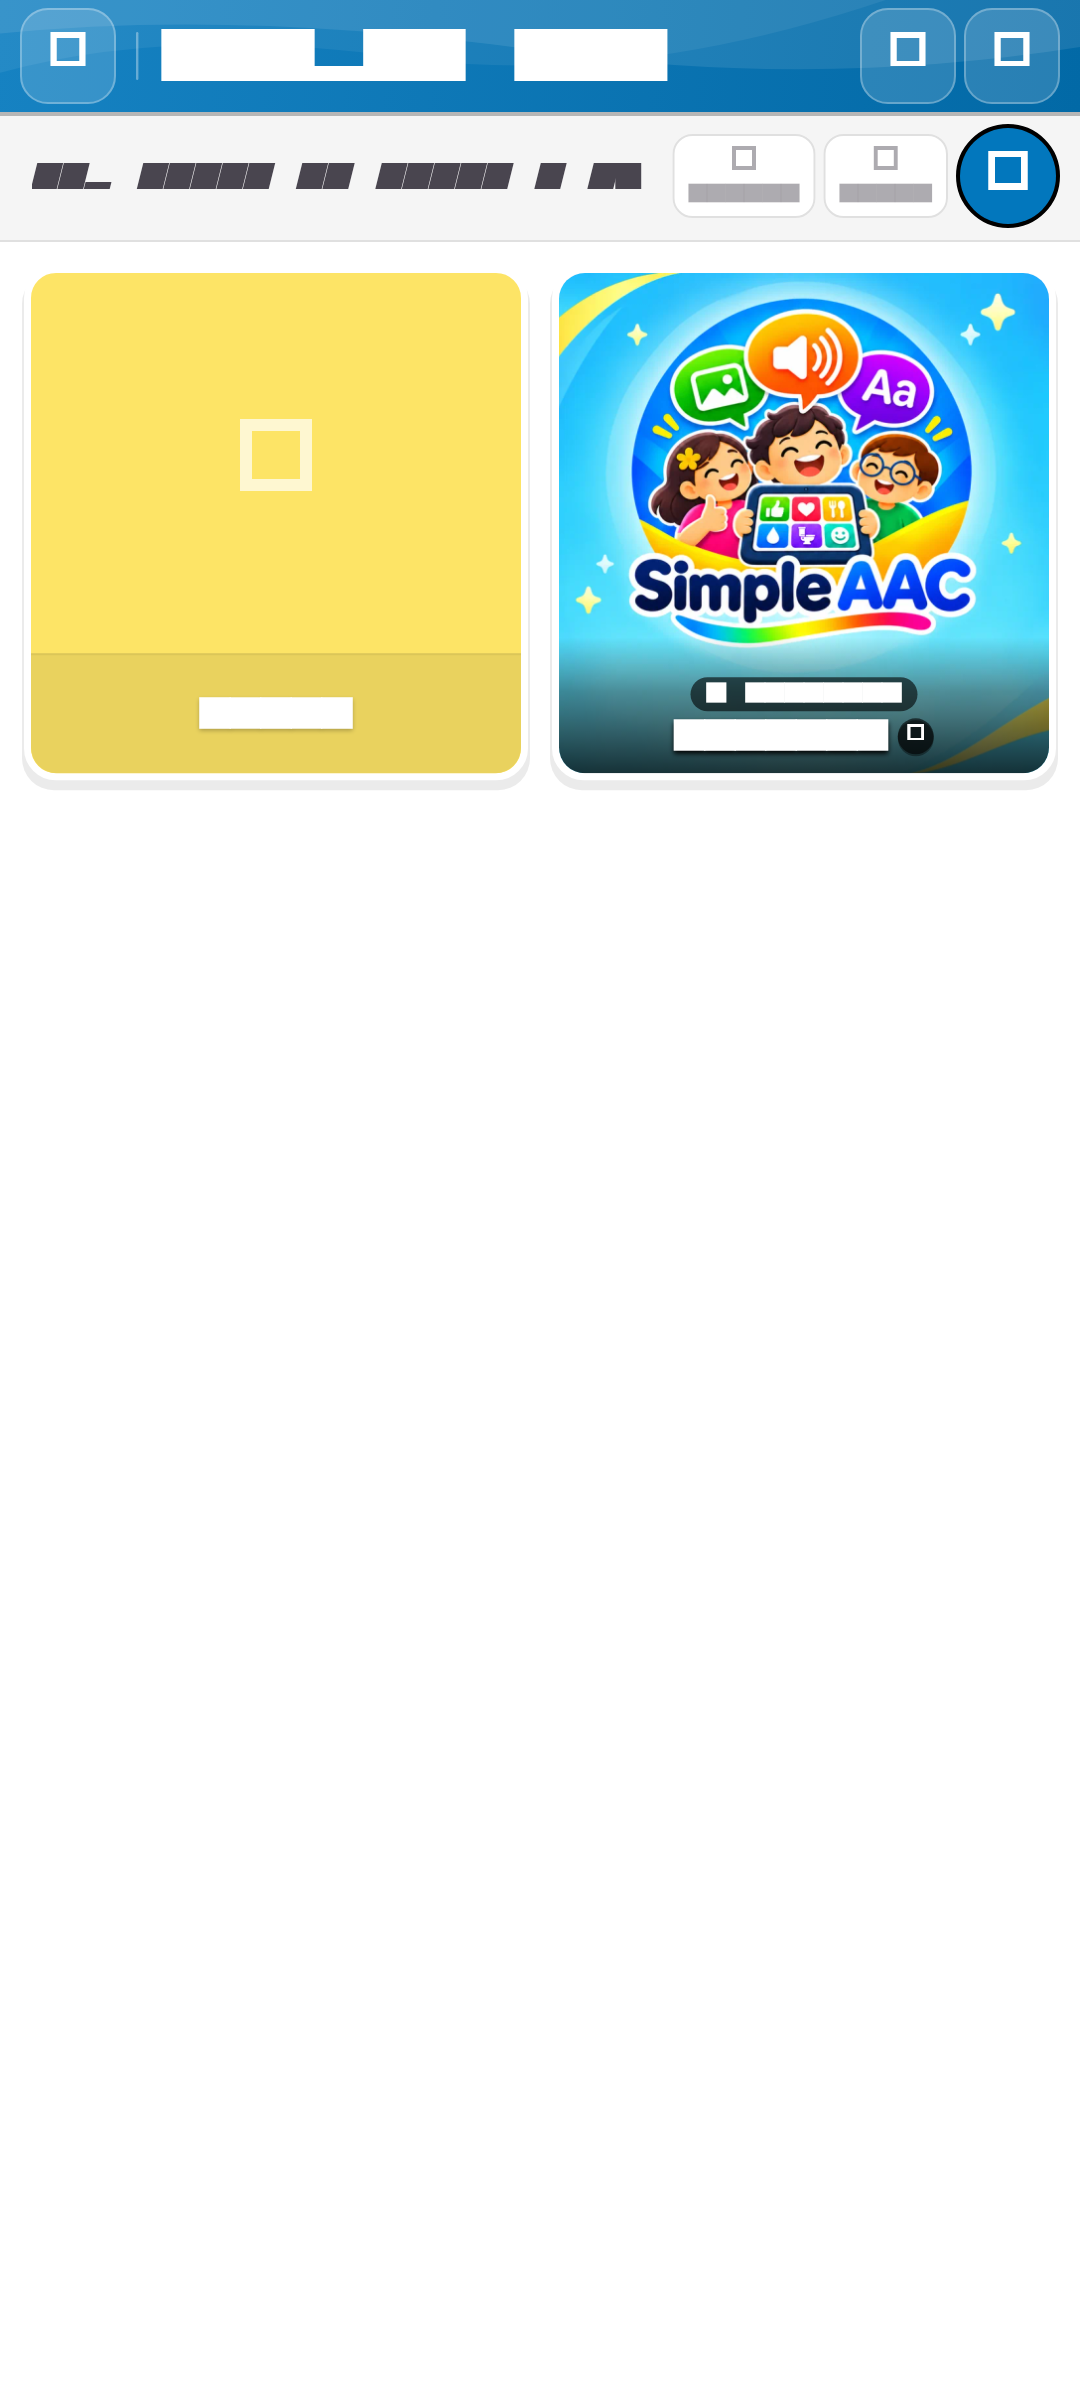
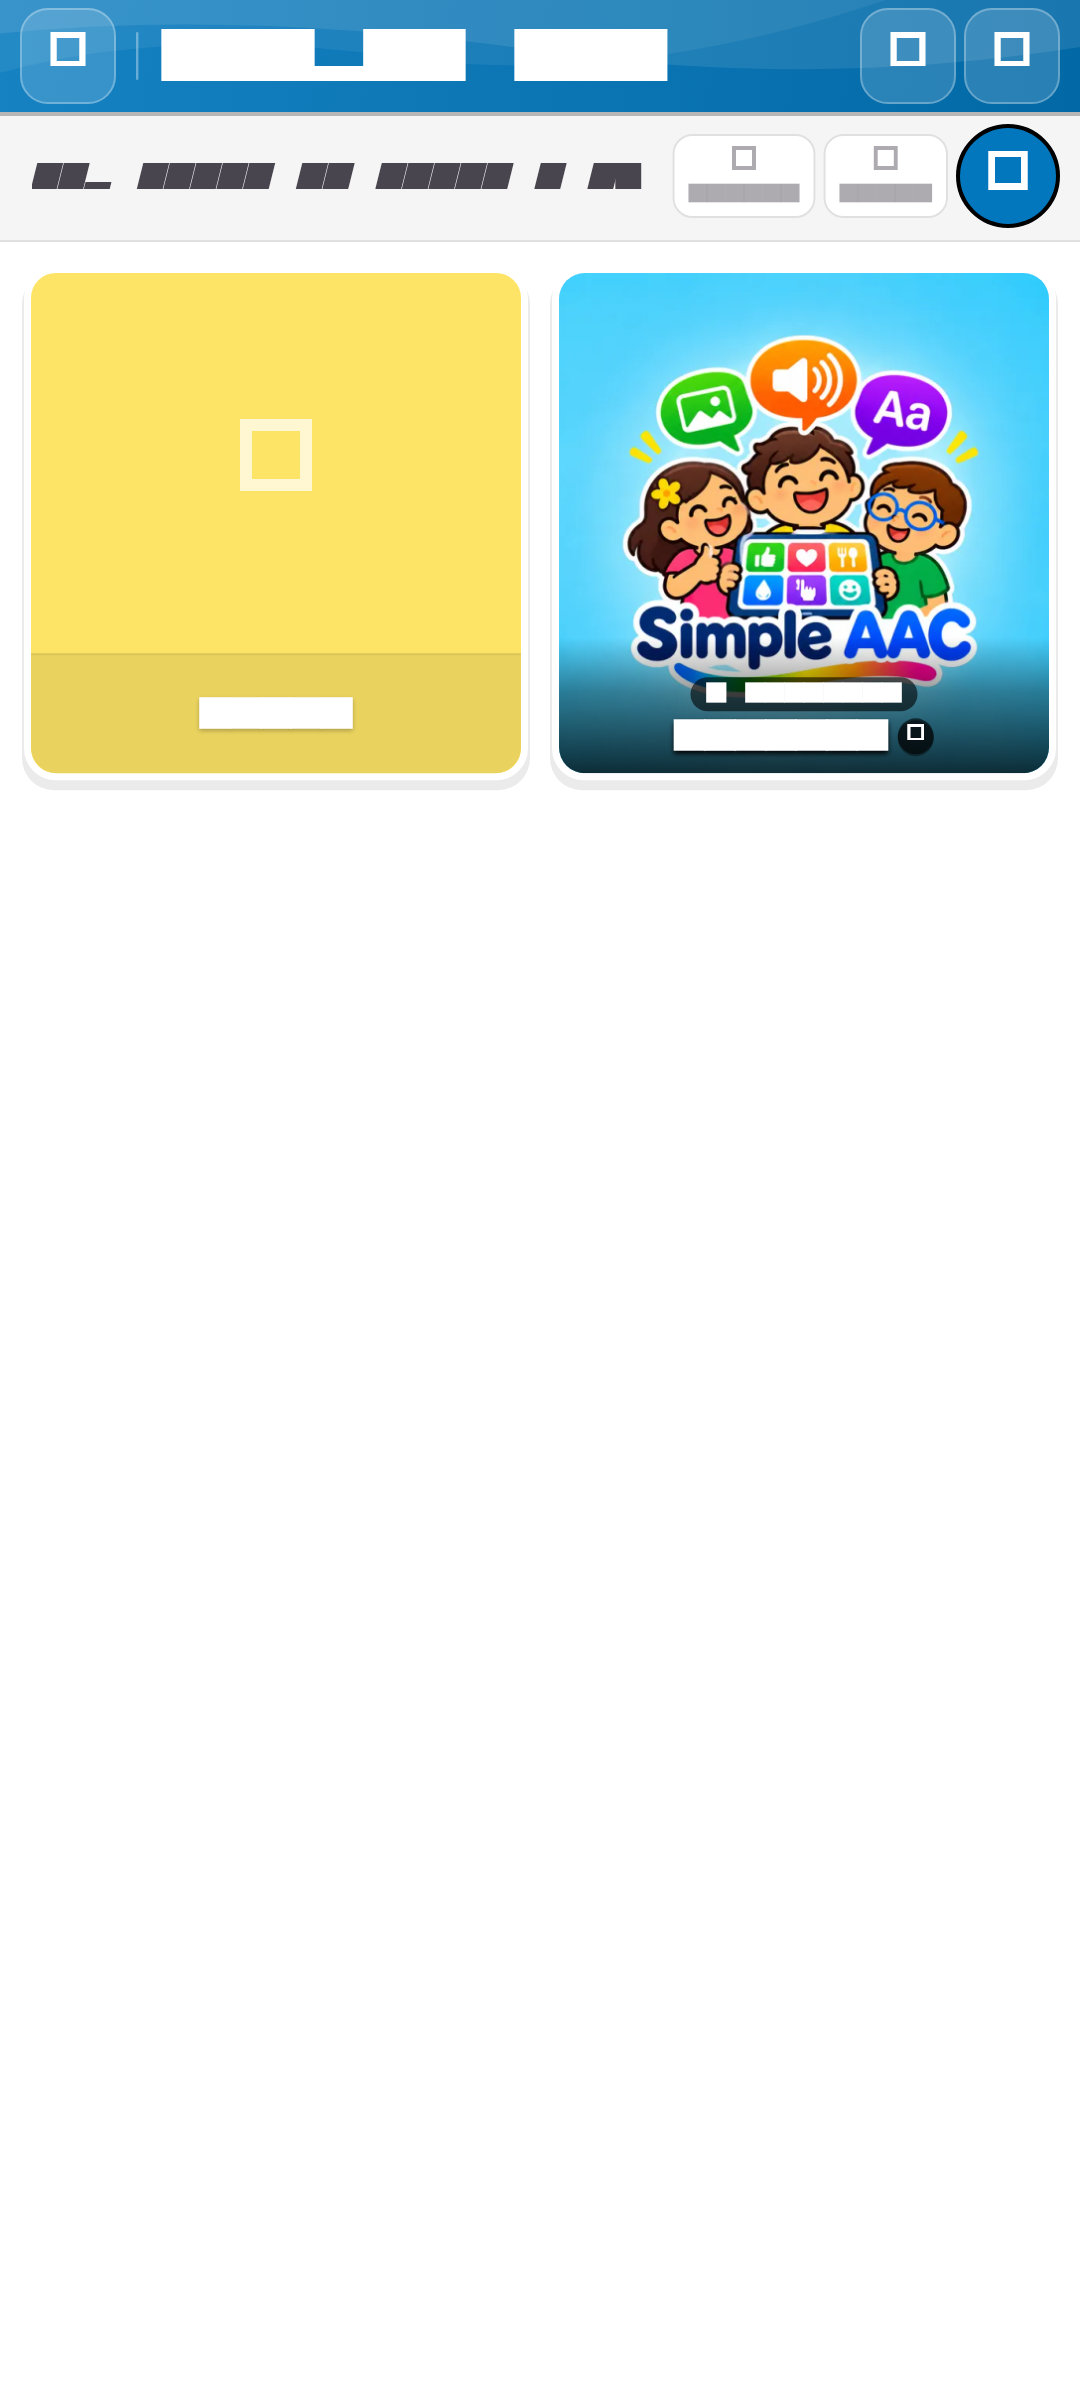
fix(assets): update Home Default folder cover with three children and AAC board
- Replaces circular cutout logo with full-bleed lightweight WebP illustration (640x640)
- Preserves Default folder title, 13 subfolders, navigation, and user custom photo isolation
- Verified 645/645 tests passing with 0 flutter analyze issues

Changed region(s): [[0.5194, 0.0938, 0.9778, 0.3125]]

diff --git a/test/default_folder_cover_test.dart b/test/default_folder_cover_test.dart
@@ -127,7 +127,7 @@ void main() {
   }
 
   group('Default Folder Cover Visual Update & Functional Parity', () {
-    test('1. Image asset exists on disk and is 768x768 WebP', () {
+    test('1. Image asset exists on disk and is valid WebP', () {
       final file = File('assets/home/default_folder_cover.webp');
       expect(file.existsSync(), isTrue, reason: 'assets/home/default_folder_cover.webp must exist');
       expect(file.lengthSync(), greaterThan(10000));
